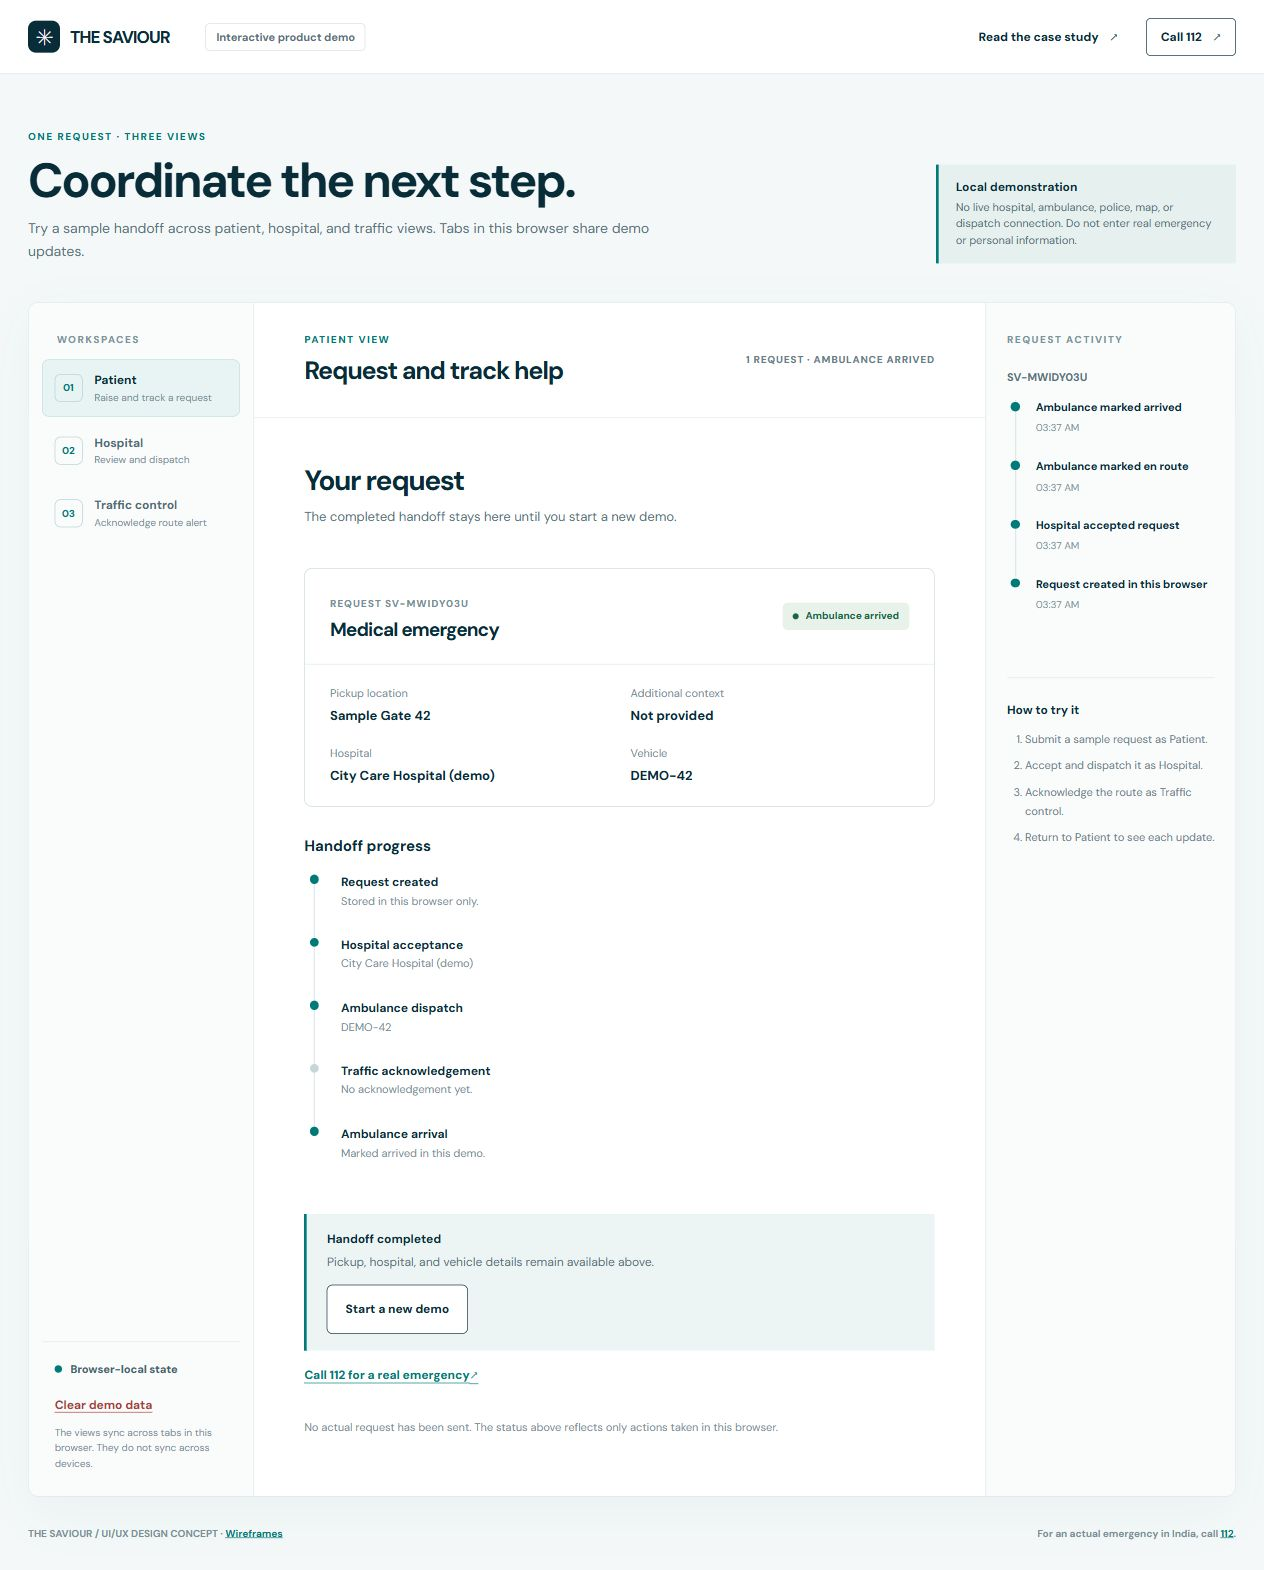
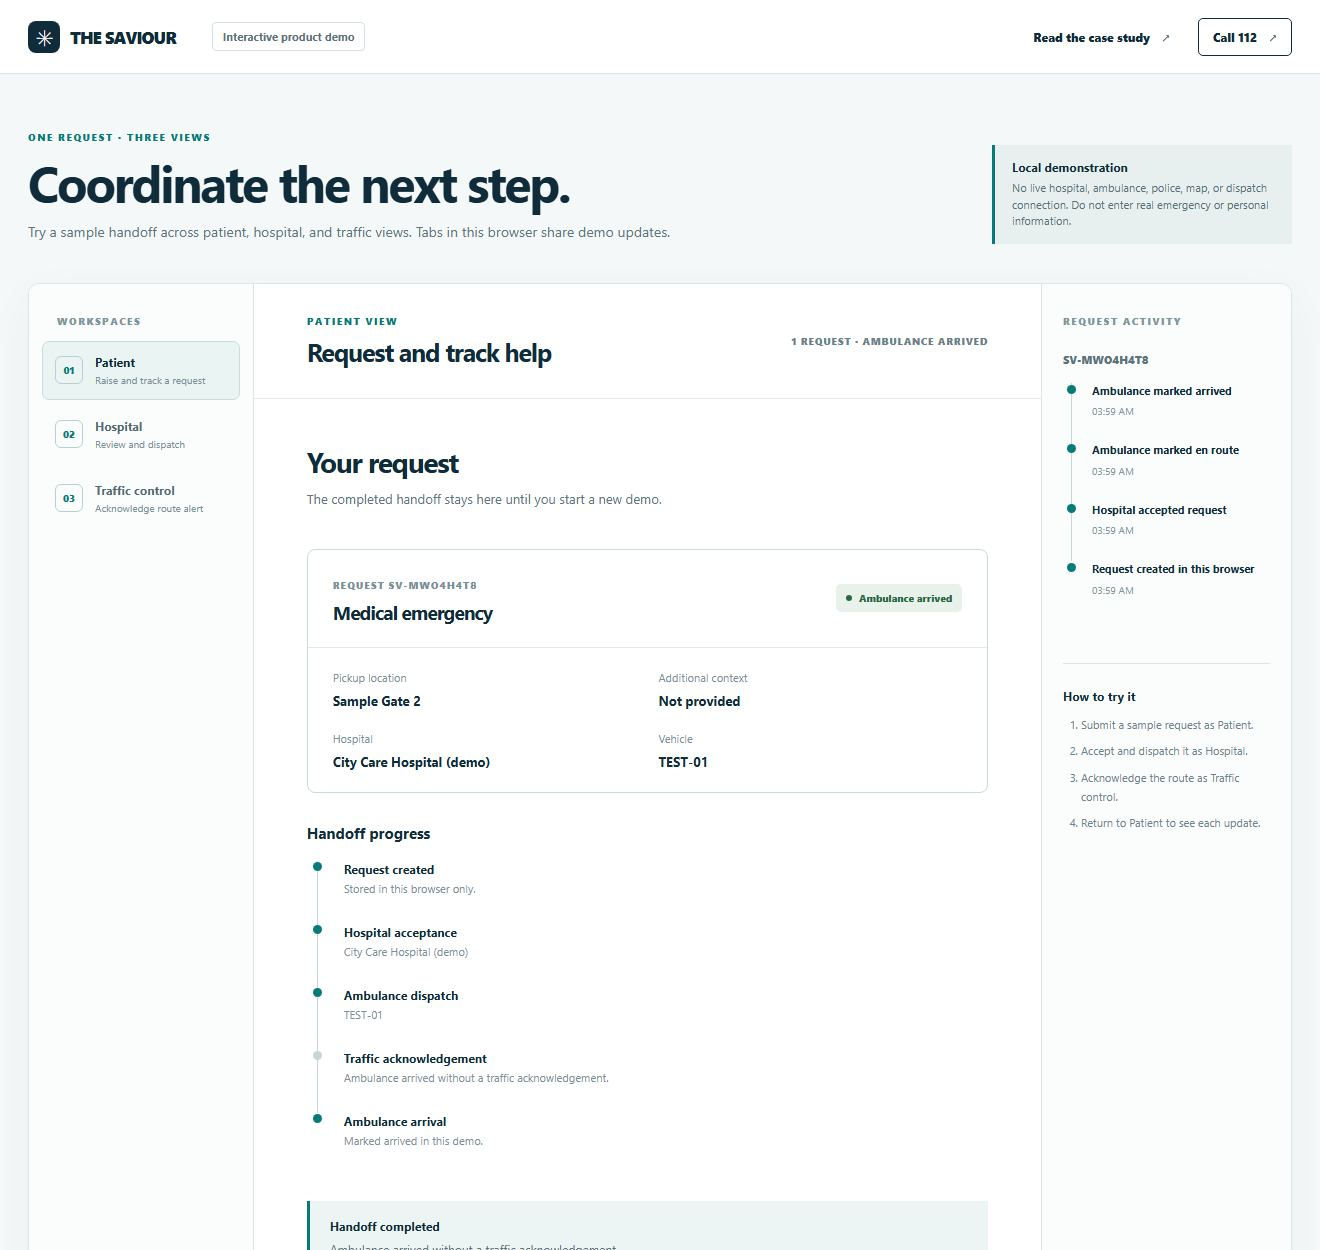
Refresh submission evidence for the revised prototype

diff --git a/task-06-product-case-study/EVALUATION.md b/task-06-product-case-study/EVALUATION.md
@@ -68,3 +68,14 @@ These are actual internal browser captures with sample data, not physical-device
 Research is currently secondary. The personas and staff roles are hypotheses. Follow USABILITY-TEST.md to collect actual observations and challenge the service premise with authorized staff. No participant-success, satisfaction, response-time, clinical or dispatch improvement is claimed.
 
 Also untested: physical devices, screen readers, other engines, storage-disabled/corrupt-data recovery and unreliable networks. No cross-device service exists. This is a functional UI/UX concept; operational readiness and institutional integration require separate work.
+
+## Submission evidence refresh · 20 November 2026
+
+The demo records arrival and traffic acknowledgement separately, including arrival without acknowledgement. The reset confirmation preserves the handoff if canceled. Firsthand research and participant validation remain outstanding.
+
+The screenshots below were recaptured from the revised prototype. Earlier evidence files are historical.
+
+- [06-arrival.jpg](screenshots/06-arrival.jpg)
+- [06-clear-confirmation.jpg](screenshots/06-clear-confirmation.jpg)
+- [06-completed-mobile.jpg](screenshots/06-completed-mobile.jpg)
+- [06-completed.jpg](screenshots/06-completed.jpg)
